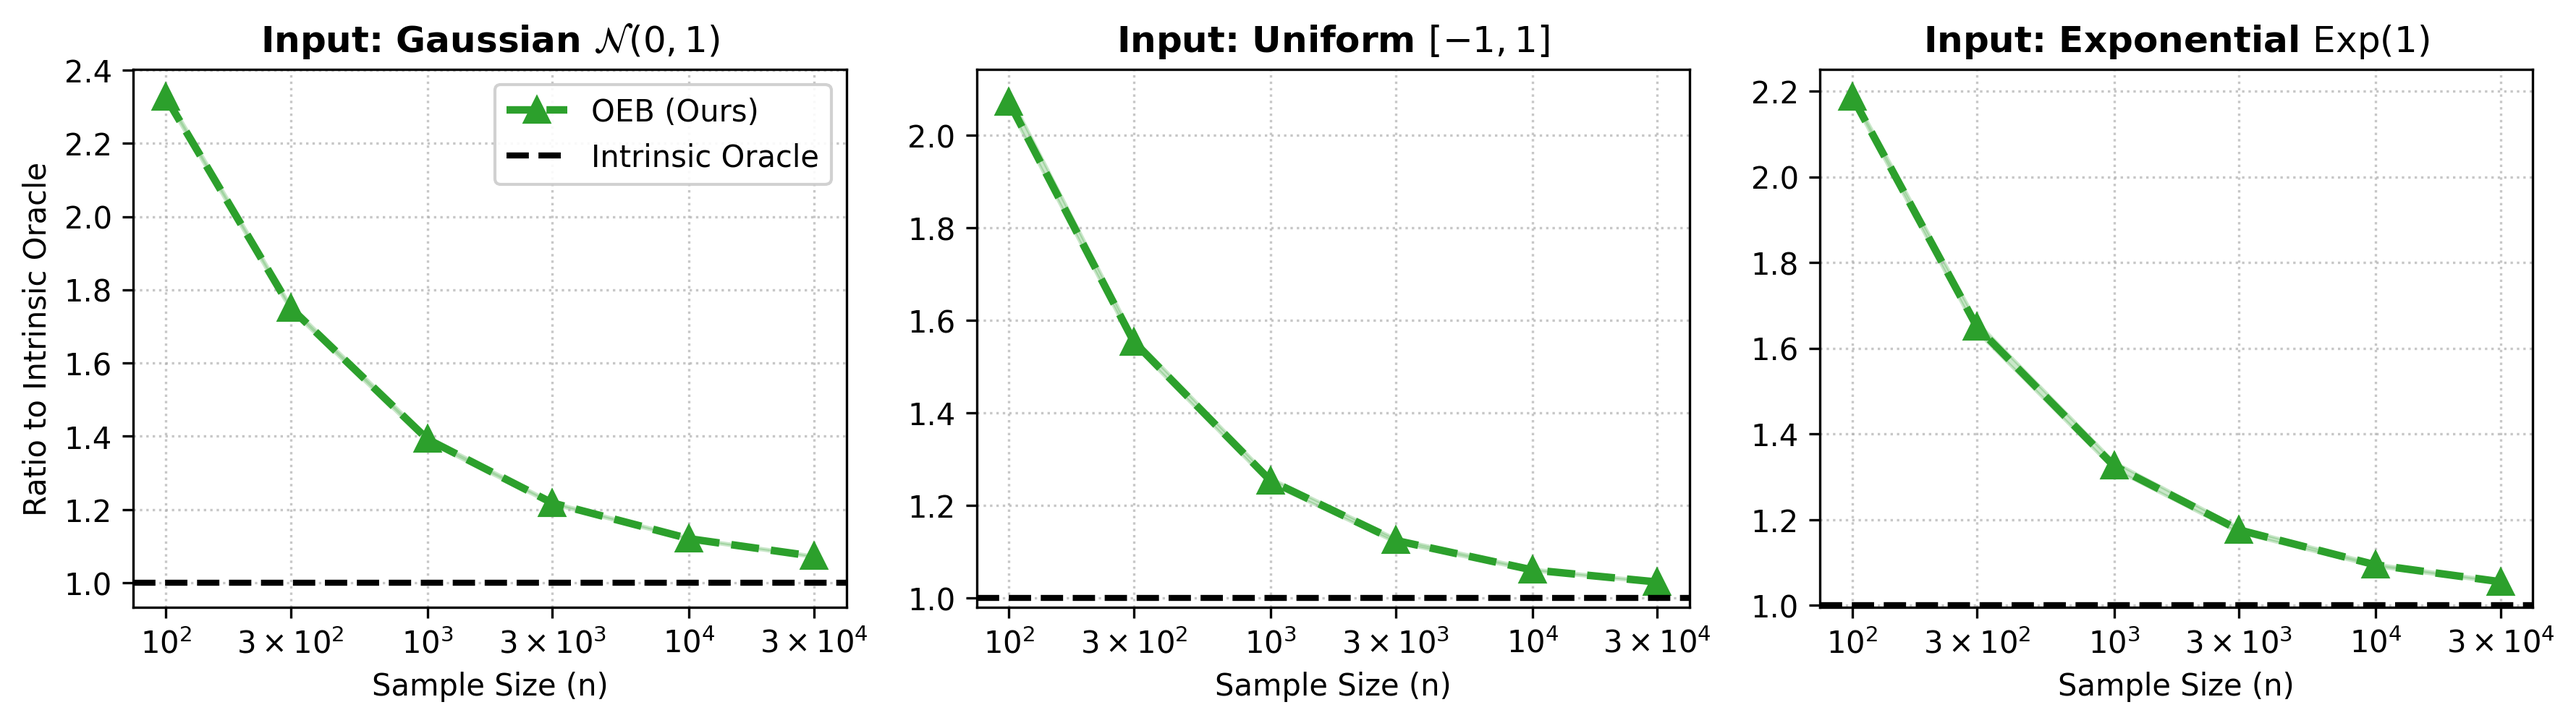
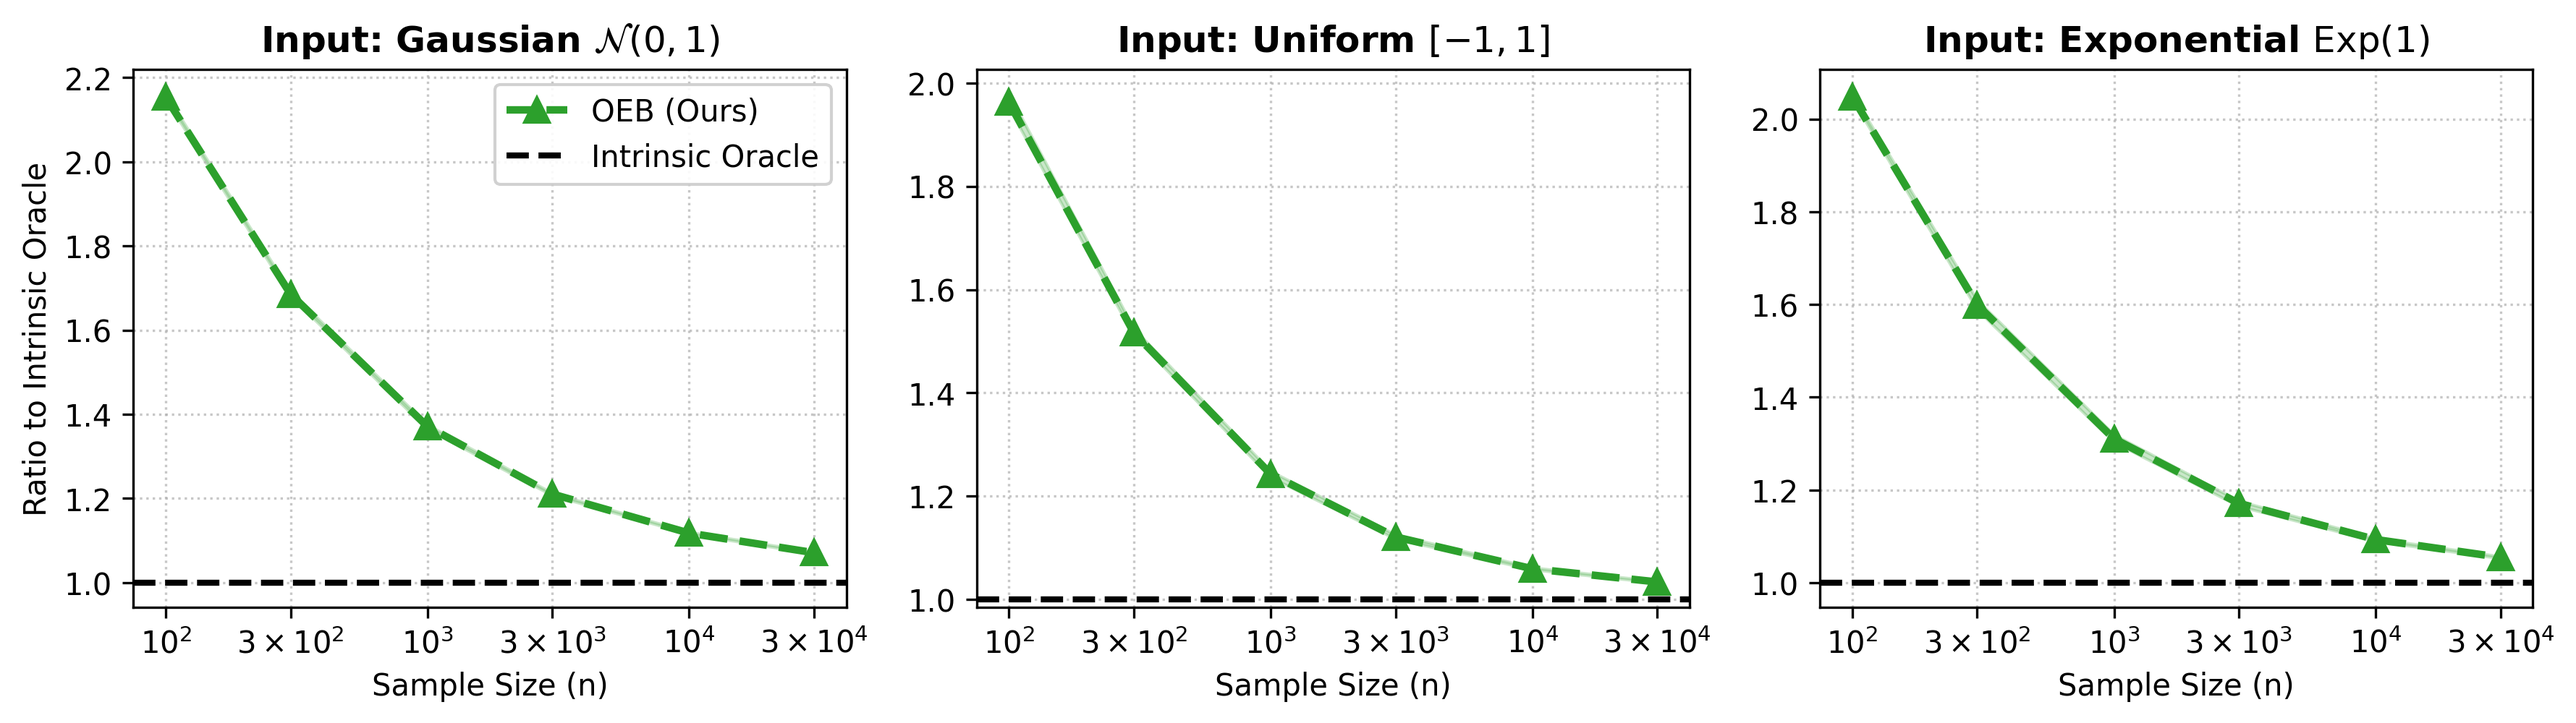
Final version

diff --git a/pca/run_distributions_kpca.py b/pca/run_distributions_kpca.py
@@ -52,7 +52,7 @@ def simulate_kpca_distributions(n_values, d=10, alpha=0.05, trials=20):
             
             # Intrinsic Oracle Baseline
             log_term_oracle = np.log((2 / alpha) * true_intrinsic_dim)
-            d_oracle = np.sqrt((2 * norm_V * log_term_oracle) / n) + ((c_bound / (3 * n)) * log_term_oracle)
+            d_oracle = np.sqrt((2 * norm_V * log_term_oracle) / n) + ((2*c_bound / (3 * n)) * log_term_oracle)
 
             for _ in tqdm(range(trials), desc=f"n={n}"):
                 X = data_fn(n, d)
@@ -120,7 +120,7 @@ def simulate_kpca_distributions(n_values, d=10, alpha=0.05, trials=20):
                 
                 intrinsic_ratio = max(tau_u / sigma_u_sq, 1.0)
                 log_term_Rn = np.log((2 / d1) * intrinsic_ratio)
-                r_n = (np.sqrt(sigma_u_sq) * np.sqrt((2 / n) * log_term_Rn)) + ((c_bound / (3 * n)) * log_term_Rn)
+                r_n = (np.sqrt(sigma_u_sq) * np.sqrt((2 / n) * log_term_Rn)) + ((2*c_bound / (3 * n)) * log_term_Rn)
                 r_n_list.append(r_n)
 
             draft_ratios = np.array(r_n_list) / d_oracle
